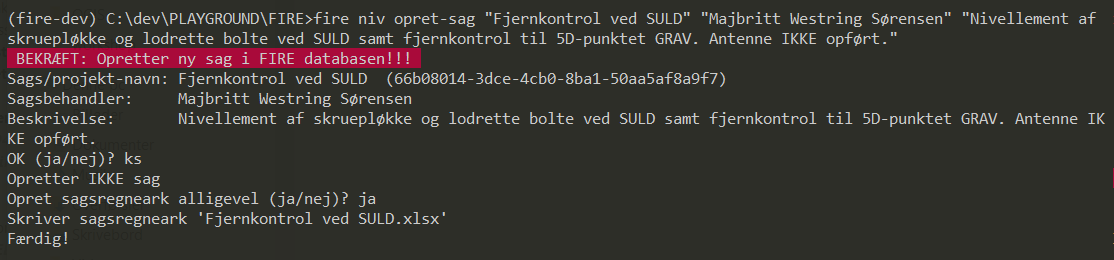
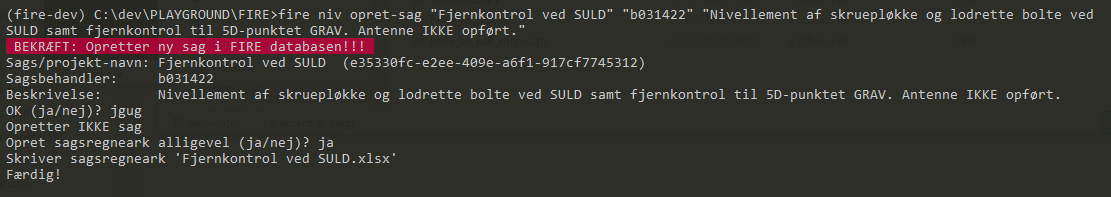
Endnu flere opdateringer frem til step 6

Changed region(s): [[0.0, 0.0305, 1.0, 0.9442]]

diff --git a/docs/workshop/workshop.rst b/docs/workshop/workshop.rst
@@ -105,10 +105,13 @@ at køre kaldet::
 Alt datahåndtering foregår på Windows og i Excelregneark med diverse faneblade. 
 Vi vil nedenfor gennemgå processen.
 
+.. note:: Sørg for at bruge små bogstaver. Kald parametre genkendes ikke med versaler.
+   Undtagelsen er ved punktnumre; her kan både store og små bogstaver benyttes.
+
 Step 1) opret-sag
 ^^^^^^^^^^^^^^^^^^^^^^^^
 
-I ``fire`` har vi valgt at knytte al beregning og punkthpndtering op på såkaldte 
+I ``fire`` har vi valgt at knytte al beregning og fikspunkthåndtering op på såkaldte 
 *sagsevents*. Det vil sige at når man går igang med et nyt projekt, fx. en opgave 
 omhandlende opmåling og beregning af lokal vandstand i Havnebyen, så opretter man 
 en sag til denne opgave, hvori alt ens dataudtræk, observationer, beregninger og 
@@ -123,10 +126,13 @@ Her kommer en beskrivelse af hvad der forventes af input:
 - Options: Valgfrit. Valgmuligheder ses i hjælpeteksten.
 - Projektnavn: Obligatorisk. Kan fx være *Fjernkontrol af SULD*. Dette bliver navnet 
   på dit regneark. 
-- Sagsbehandler: Obligatorisk. Skal være opretters FULDE NAVN.
+- Sagsbehandler: Obligatorisk. Skal altid være opretters B-NUMMER (af GDPR-årsager).
 - Beskrivelse: Valgfrit, men en god idé at beskrive nærmere hvad sagen indeholder, 
   fx "Nivellement af skruepløkke samt lodrette bolte ved SULD samt fjernkontrol til 
   5D-punktet GRAV. Antenne IKKE opført." 
+
+.. note:: Hvis input består af flere ord, fx i projektnavn eller beskrivelse, skal 
+   disse indkaples i citationstegn (\" \").
 
 I terminalen vil det se ud som dette, når der oprettes en sag:
 
@@ -164,44 +170,151 @@ Excel-arket åbnes, og der ses seks faneblade:
 
 Hvert faneblad kan nu redigeres til det formål man ønsker.
 
+.. note:: Når man laver sit kommandokald, skal man sikre sig der ikke eksisterer et
+   projekt med det navn allerede, ellers vil ``fire`` brokke sig. ``fire`` kan ligeledes 
+   ikke skrive til et allerede åbent excel-ark.
+  
+Ang. nyetablerede punkter:
+Hertil findes et faneblad, som skal udfyldes med mindst tre oplysninger:
+
+1. Et foreløbigt navn
+2. En længdegrad, /lambda
+3. En breddegrad, /phi
+
+De resterende kolonner må meget gerne også fyldes ud, men den videre proces er ikke 
+afhængig af dem. Det man ikke kan udfylde, er *Landsnummer* og *uuid*, da det først 
+genereres det øjeblik punktet ilægges databasen nede i step 4).
+
+.. image:: firenivopretsag4.png
+  :width: 800
+  :alt: Opret nye punkter, excel-visning
+
 Step 2) udtræk-revision
 ^^^^^^^^^^^^^^^^^^^^^^^^
 
-Ved de kommunale opgaver starter vi normalt med at lave et udtræk fra databasen for 
-et specifikt område, hvor tekstbeskrivelsen for hvert relevant fikspunkt fremgår i en 
-såkaldt *rev-fil*. Med "relevant fikspunkt" menes fikspunkter, som vi tilser og som 
-vises i webtjenesten Valdemar. Altså ikke restrictede punkter, kendingspunkter, som 
-skorstene og fyr, jernrør i støbning, og lignende punkter irrelevant for kunden.
-Det script som lavede udtræk hed i det gamle system ``bsk_ud``. 
-I dag kan det gøres via et underkald i ``fire niv``, som hedder ``udtræk-revision``
+Når vi er ude at tilse punkter, fx ifm. den kommunale punktrevision, kontrolleres det 
+at punktets attributter (beskrivelse, lokation, bolttype osv.) er korrekt; hvis ikke 
+skal de rettes til.
+Til det formål kan man kalde en kommando, der hedder ``udtræk-revision`` under 
+``fire niv``:
 
-	> fire niv udtræk-revision
-	
-Step 3) udtræk-revision
+	> fire niv udtræk-revision --help
+
+Det ses man skal definere to parametre:
+
+- Projektnavn: Som defineret i ``opret-sag``. Indkapslet i \" \"
+- Distriks- eller punktnavn(e): Her kan man fx. skrive 61-07 61-03 63-10 SULD 
+
+I terminalen vil det se ud som følger:
+
+.. image:: firenivudtrækrevision.png
+  :width: 800
+  :alt: Udtræk data til punktrevision
+
+hvorefter punkterne udtrækkes og lægges i en ny excel-fil navngivet med 
+"projektnavn"-revision.xlsx. Format er som vist nedenfor:
+
+.. image:: firenivudtrækrevision2.png
+  :width: 800
+  :alt: Udtræk data til punktrevision, excelvisning
+
+I dette ark kan man nu rette attributterne til efter behov. Nedenfor er vist: 
+
+1. rettelser for punkt K-63-09930 i attributterne *ATTR:beskrivelse* og 
+   *AFM:højde_over_terræn*
+2. ændring i lokationskoordinaten (*OVERVEJ:lokation*) samt
+3. tilføjelse af og om punktet kunne være muligt datumstabilt 
+   (*OVERVEJ:muligt_datumstabil*) og dens GNSS-egnetheden, *ATTR:gnss_egnet*.
+
+.. image:: firenivudtrækrevision3.png
+  :width: 800
+  :alt: Udtræk data til punktrevision, excelvisning
+
+.. note:: Attributter MED id indikerer at oplysningen er gemt og udtrukket fra 
+   databasen. Attributter UDEN id er endnu ikke oprettet i databasen. 
+
+Ved revision af mange punkter, er der oprettet en overblikskolonne, *Ikke besøgt*. 
+Denne er født med et kryds ud for punktbeskrivelsen, da man derved kan tilføje excels 
+filterfunktion, og filtrere de rækker væk uden et kryds. Derved kan man let se 
+hvilke punkter man endnu ikke har været forbi... såfremt man husker at slette 
+krydset fra de punkter man allerede HAR besøgt.
+ 
+
+Step 3) ilæg-revision
 ^^^^^^^^^^^^^^^^^^^^^^^^
 
-Step 4) ilæg-revision
+*ENDNU IKKE IMPLEMENTERET*
+
+Step 4) ilæg-nye-punkter
 ^^^^^^^^^^^^^^^^^^^^^^^^
 
-Step 5) ilæg-nye-punkter
-^^^^^^^^^^^^^^^^^^^^^^^^
+*ENDNU IKKE IMPLEMENTERET*
 
-Step 6) læs-observationer
+Step 5) læs-observationer
 ^^^^^^^^^^^^^^^^^^^^^^^^^^
 
-Step 7) beregn-nye-koter (eller adj)
+Når man har lavet sin opmåling færdig, ender man med en råfil eller mere, som skal 
+beregnes. Disse filnavne (og tilhørende sti) skal tastes ind i excel-arket under 
+fanen *Filoversigt* med en opmålingstype, en apriori-spredning (/sigma) med det 
+afstandsuafhængige led (/delta). 
+
+Herefter **GEMMES OG LUKKES EXCEL-ARKET** og man vender tilbage til terminalen for 
+at lave kaldet ``læs-observationer``. Lad os se hvilke parametre det har brug for:
+
+	> fire niv læs-observationer --help.
+
+Her vises at den obligatoriske parameter er *Projektnavn*, hvilket i vores eksempel 
+vil se således ud:
+
+.. image:: firenivlæsobservationer.png
+  :width: 800
+  :alt: Netopbygning ud fra inputfiler
+
+Efter kaldet er færdigkørt, vil der være dannet tre nye filer;
+
+- en *projektnavn*-resultat.xlsx
+- en *projektnavn*-observationer.geojson samt
+- en *projektnavn*-punkter.geojson
+
+De to .geojson-filer er til indlæsning i QGIS til visualisering af nettet. Se 
+:ref:`her <visualiseringQGIS>` for mere.
+ 
+Derudover står der i terminalen hvad man skal gøre som det næste: *Kopiér nu 
+faneblade fra '*Projektnavn*-resultat.xlsx' til '*Projektsnavn*.xlsx', og vælg 
+fastholdte punkter i punktoversigten.* Så det gør vi.
+
+.. image:: firenivlæsobservationer2.png
+  :width: 800
+  :alt: Netopbygning ud fra inputfiler
+
+(højreklik på fanebladet, vælg *Flyt eller kopier*)
+
+I sin projektfil kan man nu notere hvilke punkter skal fastholdes, ved at, i fanebladet 
+*Punktoversigt*, skrive *0* ud for punktet i *Fix*-kolonnen.
+ 
+.. image:: firenivlæsobservationer2.png
+  :width: 800
+  :alt: Netopbygning ud fra inputfiler
+  
+Herefter kan vi gå videre til næste step og beregne nye koter til eksisterende og 
+nyetablerede punkter, som nu fremgår i projekt-filen. 
+  
+Step 6) beregn-nye-koter (eller adj)
 ^^^^^^^^^^^^^^^^^^^^^^^^^^^^^^^^^^^^
 
-Step 8) ilæg-observationer
+Step 7) ilæg-observationer
 ^^^^^^^^^^^^^^^^^^^^^^^^^^^
 
-Step 9) ilæg-nye-koter 
+Step 8) ilæg-nye-koter 
 ^^^^^^^^^^^^^^^^^^^^^^^^^^^
 
-Step 10) luk-sag
+Step 9) luk-sag
 ^^^^^^^^^^^^^^^^^^^^^^^^^^^
 
+*ENDNU IKKE IMPLEMENTERET*
 
+
+.. _visualiseringQGIS:
 
 Visualisering i QGIS
 ------------------------
